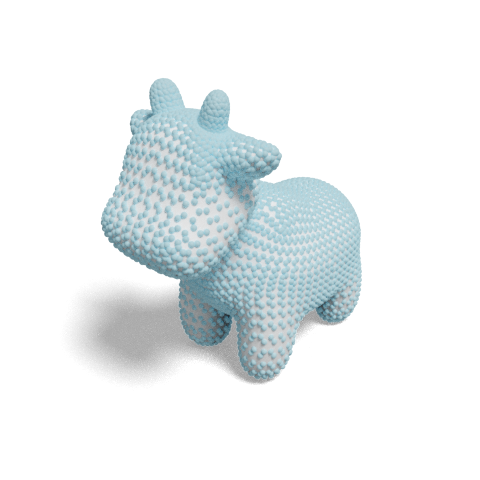
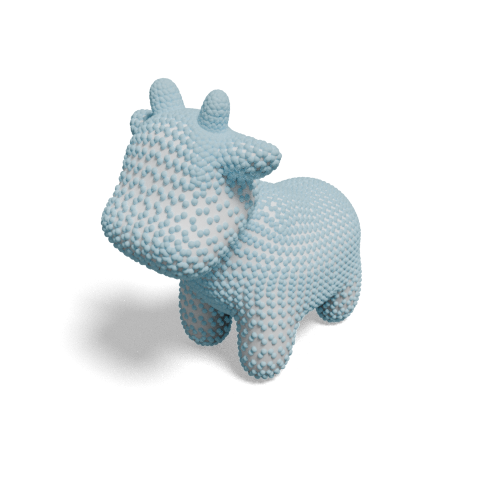
all demos until demoPointCloud confirmed working

Changed region(s): [[0.2188, 0.4688, 0.5938, 0.7812], [0.4375, 0.3438, 0.5625, 0.4688], [0.625, 0.5938, 0.7188, 0.6875]]

diff --git a/BlenderToolBox/setMat_edgeWithTexture.py b/BlenderToolBox/setMat_edgeWithTexture.py
@@ -60,11 +60,11 @@ def setMat_edgeWithTexture(mesh, edgeThickness, edgeRGBA, texturePath, textureHS
 	# set principled BSDF
 	PRI = tree.nodes["Principled BSDF"]
 	PRI.inputs['Roughness'].default_value = 0.3
-	PRI.inputs['Sheen Tint'].default_value = 0
-	PRI.inputs['Specular'].default_value = 0.2
+	PRI.inputs['Sheen Tint'].default_value = [0, 0, 0, 1]
+	PRI.inputs['Specular IOR Level'].default_value = 0.2
 	PRI.inputs['IOR'].default_value = 1.45
-	PRI.inputs['Transmission'].default_value = 0
-	PRI.inputs['Clearcoat Roughness'].default_value = 0
+	PRI.inputs['Transmission Weight'].default_value = 0
+	PRI.inputs['Coat Roughness'].default_value = 0
 
 
 	# link everything

diff --git a/BlenderToolBox/drawEdgeSubset.py b/BlenderToolBox/drawEdgeSubset.py
@@ -40,8 +40,14 @@ def drawEdgeSubset(mesh, E, r, edgeColor):
         dz = z2 - z1    
         dist = math.sqrt(dx**2 + dy**2 + dz**2) 
 
-        bpy.ops.object.duplicate({"object" : cylinder}, linked=True)
-        objCopy = bpy.context.object
+        # cylinder.duplicate
+        bpy.ops.object.duplicate( linked=True)  # annoying I can't specify object i want to apply this to in here
+        bpy.context.selected_objects.clear()
+        cylinder.select_set(True)
+
+        objCopy = bpy.context.active_object
+
+
         objCopy.dimensions = (r,r,dist)
         objCopy.location = (dx/2 + x1, dy/2 + y1, dz/2 + z1)
         phi = math.atan2(dy, dx) 

diff --git a/BlenderToolBox/setMat_emission.py b/BlenderToolBox/setMat_emission.py
@@ -27,7 +27,7 @@ def setMat_emission(mesh, meshColor, emission_strength):
 	# tree.nodes["Principled BSDF"].inputs['Metallic'].default_value = 0.0
 	# tree.nodes["Principled BSDF"].inputs['Transmission'].default_value = transmission
 	# tree.nodes["Principled BSDF"].inputs['Alpha'].default_value = transparency
-	tree.nodes["Principled BSDF"].inputs['Emission'].default_value = meshColor.RGBA # emission color
+	tree.nodes["Principled BSDF"].inputs['Emission Color'].default_value = meshColor.RGBA # emission color
 	tree.nodes["Principled BSDF"].inputs['Emission Strength'].default_value = emission_strength # emission color
 
 

diff --git a/BlenderToolBox/setMat_monotone.py b/BlenderToolBox/setMat_monotone.py
@@ -26,8 +26,8 @@ def setMat_monotone(mesh, meshColor, CList, silhouetteColor, shadowSize):
     # set principled	
     principleNode = tree.nodes["Principled BSDF"]
     principleNode.inputs['Roughness'].default_value = 1.0
-    principleNode.inputs['Sheen Tint'].default_value = 0
-    principleNode.inputs['Specular'].default_value = 0.0
+    principleNode.inputs['Sheen Tint'].default_value = [ 0, 0, 0, 1]
+    principleNode.inputs['Specular IOR Level'].default_value = 0.0
 
     # init level
     initRGB = tree.nodes.new('ShaderNodeHueSaturation')

diff --git a/BlenderToolBox/setMat_VColor.py b/BlenderToolBox/setMat_VColor.py
@@ -38,6 +38,6 @@ def setMat_VColor(mesh, meshVColor):
 
 	# set principled BSDF
 	tree.nodes["Principled BSDF"].inputs['Roughness'].default_value = 1.0
-	tree.nodes["Principled BSDF"].inputs['Sheen Tint'].default_value = 0
+	tree.nodes["Principled BSDF"].inputs['Sheen Tint'].default_value = [0, 0, 0, 1]
 	tree.links.new(HSVNode.outputs['Color'], BCNode.inputs['Color'])
 	tree.links.new(BCNode.outputs['Color'], tree.nodes['Principled BSDF'].inputs['Base Color'])

diff --git a/BlenderToolBox/setMat_metal.py b/BlenderToolBox/setMat_metal.py
@@ -22,7 +22,7 @@ def setMat_metal(mesh, meshColor, AOStrength, metalVal = 0.9):
 
 	# set principled BSDF
 	tree.nodes["Principled BSDF"].inputs['Roughness'].default_value = 0.7
-	tree.nodes["Principled BSDF"].inputs['Sheen Tint'].default_value = 0
+	tree.nodes["Principled BSDF"].inputs['Sheen Tint'].default_value = [0, 0, 0, 1]
 	tree.nodes["Principled BSDF"].inputs['Metallic'].default_value = metalVal
 
 	# add Ambient Occlusion

diff --git a/BlenderToolBox/setMat_honey.py b/BlenderToolBox/setMat_honey.py
@@ -22,7 +22,7 @@ def setMat_honey(mesh, meshColor, notTransparency = 0.6):
 
 	# set principled BSDF
 	tree.nodes["Principled BSDF"].inputs['Roughness'].default_value = 0.7
-	tree.nodes["Principled BSDF"].inputs['Sheen Tint'].default_value = 0
+	tree.nodes["Principled BSDF"].inputs['Sheen Tint'].default_value = [0, 0, 0, 1]
 
 	MIXNode = tree.nodes.new('ShaderNodeMixShader')
 	MIXNode.inputs[0].default_value = notTransparency

diff --git a/BlenderToolBox/setMat_texture.py b/BlenderToolBox/setMat_texture.py
@@ -24,7 +24,7 @@ def setMat_texture(mesh, texturePath, meshColor, alpha= 1.0, colorspace_settting
     # set principled BSDF
     PRI = tree.nodes["Principled BSDF"]
     PRI.inputs['Roughness'].default_value = 1.0
-    PRI.inputs['Sheen Tint'].default_value = 0
+    PRI.inputs['Sheen Tint'].default_value = [0, 0, 0, 1]
     PRI.inputs['Alpha'].default_value = alpha
 
     TI = tree.nodes.new('ShaderNodeTexImage')

diff --git a/BlenderToolBox/setMat_muscle.py b/BlenderToolBox/setMat_muscle.py
@@ -24,7 +24,7 @@ def setMat_muscle(mesh, meshColor, fiberShape, bumpStrength = 0.4, wrinkleness =
     # set principled BSDF
     PRIN = tree.nodes["Principled BSDF"]
     PRIN.inputs['Roughness'].default_value = 0.5
-    PRIN.inputs['Clearcoat Roughness'].default_value = 0.2
+    PRIN.inputs['Coat Roughness'].default_value = 0.2
 
     # initialize required nodes
     BUMP = tree.nodes.new('ShaderNodeBump')

diff --git a/BlenderToolBox/readOBJ.py b/BlenderToolBox/readOBJ.py
@@ -24,7 +24,7 @@ def readOBJ(filePath, location, rotation_euler, scale):
 	prev = []
 	for ii in range(len(list(bpy.data.objects))):
 		prev.append(bpy.data.objects[ii].name)
-	bpy.ops.import_scene.obj(filepath=filePath, split_mode='OFF')
+	bpy.ops.wm.obj_import(filepath=filePath, use_split_groups=False)
 	after = []
 	for ii in range(len(list(bpy.data.objects))):
 		after.append(bpy.data.objects[ii].name)

diff --git a/BlenderToolBox/setMat_pointCloud.py b/BlenderToolBox/setMat_pointCloud.py
@@ -25,7 +25,7 @@ def setMat_pointCloud(mesh, \
 
     # set principled BSDF
     tree.nodes["Principled BSDF"].inputs['Roughness'].default_value = 0.7
-    tree.nodes["Principled BSDF"].inputs['Sheen Tint'].default_value = 0
+    tree.nodes["Principled BSDF"].inputs['Sheen Tint'].default_value = [0, 0, 0, 1]
 
     # add Ambient Occlusion
     tree.nodes.new('ShaderNodeAmbientOcclusion')

diff --git a/BlenderToolBox/setMat_edge.py b/BlenderToolBox/setMat_edge.py
@@ -26,7 +26,7 @@ def setMat_edge(mesh, \
 
 	# set principled BSDF
 	tree.nodes["Principled BSDF"].inputs['Roughness'].default_value = 0.7
-	tree.nodes["Principled BSDF"].inputs['Sheen Tint'].default_value = 0
+	tree.nodes["Principled BSDF"].inputs['Sheen Tint'].default_value = [0, 0, 0, 1]
 
 	# add Ambient Occlusion
 	tree.nodes.new('ShaderNodeAmbientOcclusion')
